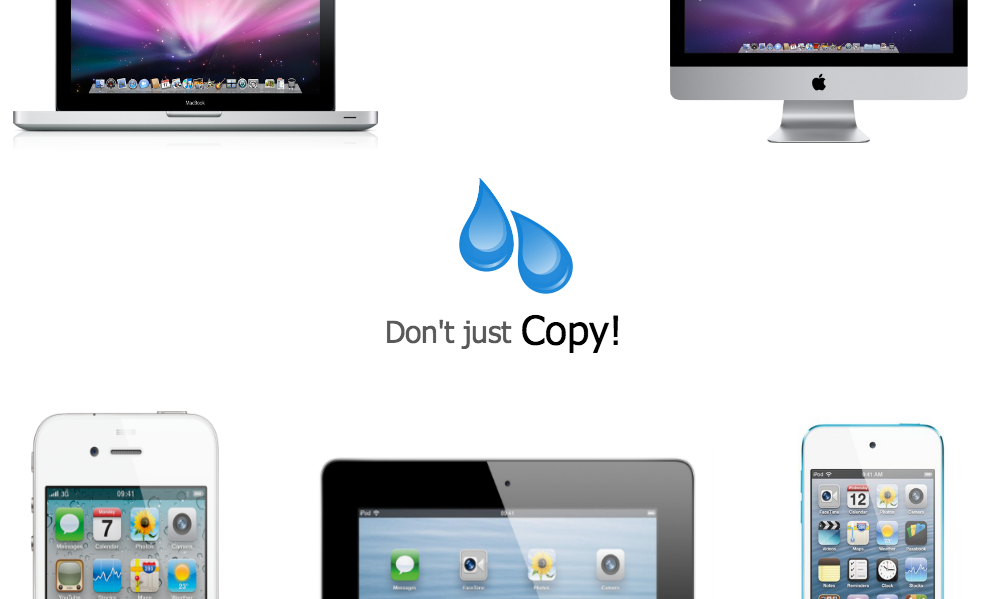
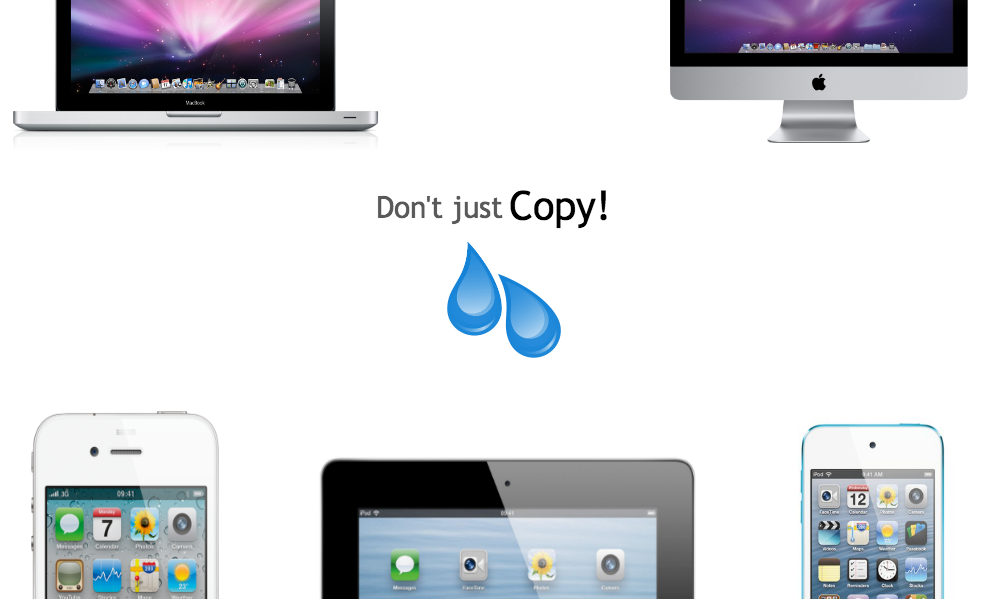
draft6

Changed region(s): [[0.3647, 0.3005, 0.6383, 0.601]]

diff --git a/views/style.scss b/views/style.scss
@@ -52,7 +52,7 @@ h1,h2,h3,h4,div,p,td,span {
 	color:#FFFFFF;
 	clear:both;
 	
-	margin-bottom:10px;
+	/*margin-bottom:10px;*/
 		
 }
 
@@ -82,6 +82,8 @@ h1,h2,h3,h4,div,p,td,span {
 	padding-right:30px;
 	border-right: solid 1px #b5b5b5;
 }
+
+#divTitle a {color:#FFFFFF; text-decoration:none;}
 
 #iconiLoveMyABCs {
 	float:left;

diff --git a/application.rb b/application.rb
@@ -9,6 +9,10 @@ get '/' do
   haml :index
 end
 
+get '/idropcopy' do
+  haml :idropcopy
+end
+
 get '/style.css' do
   content_type 'text/css', :charset => 'utf-8'
   scss :style
